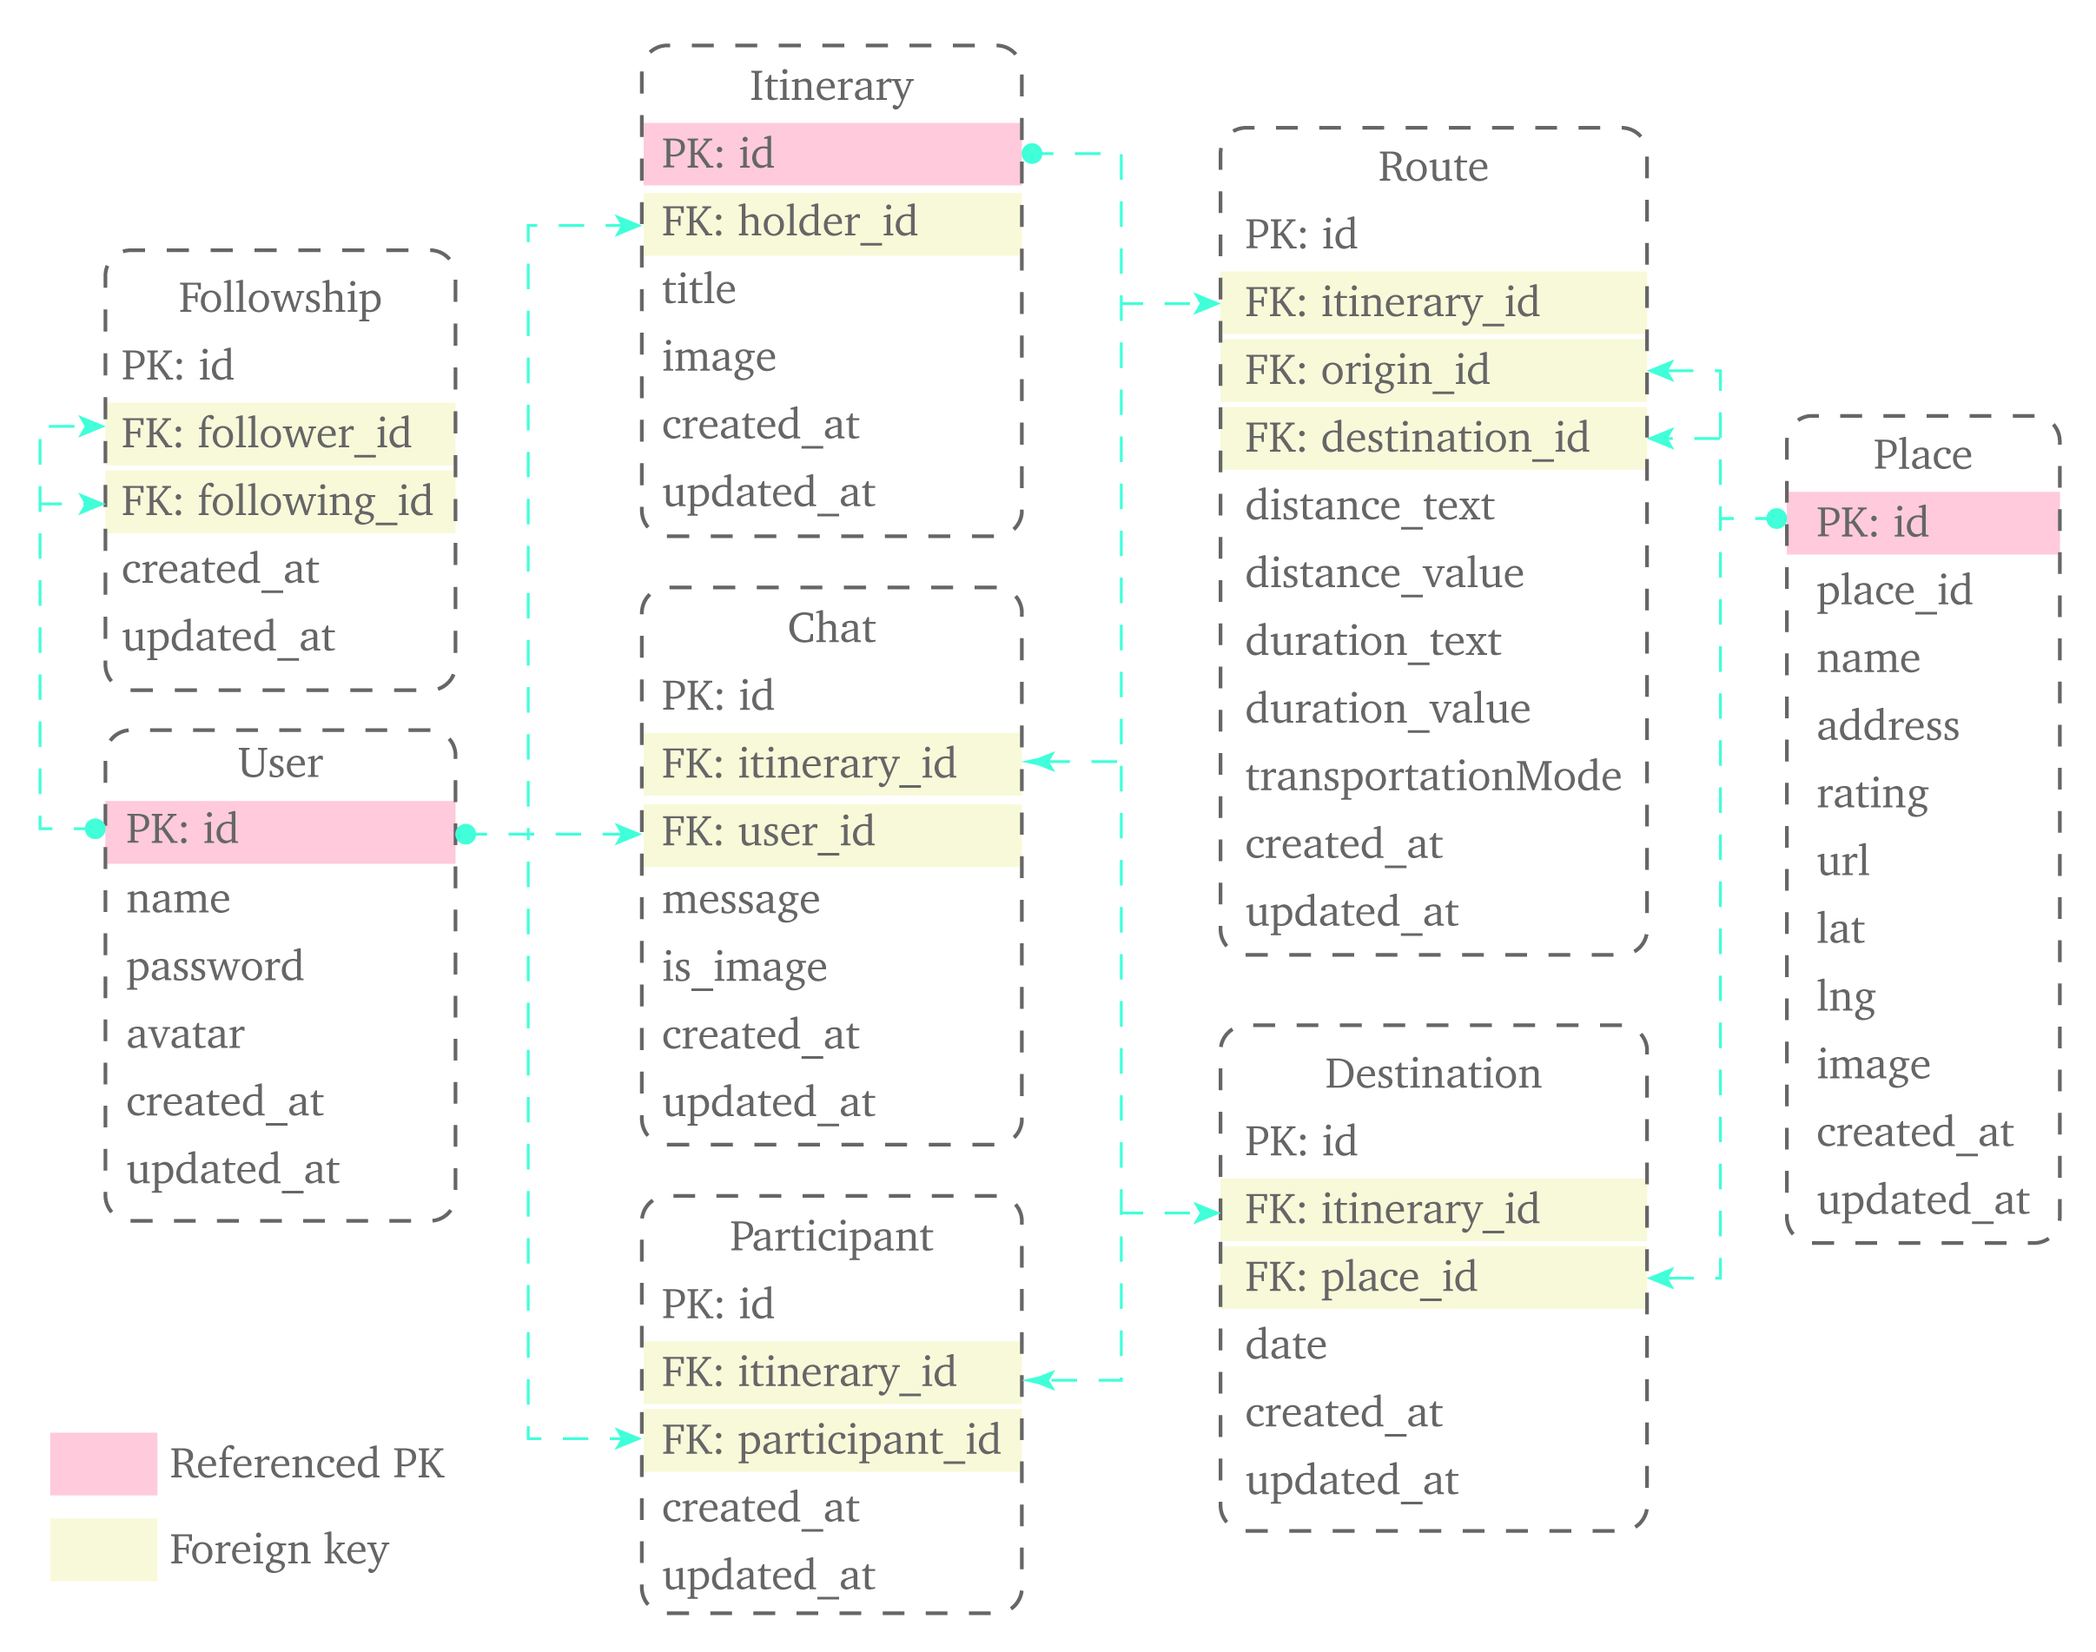
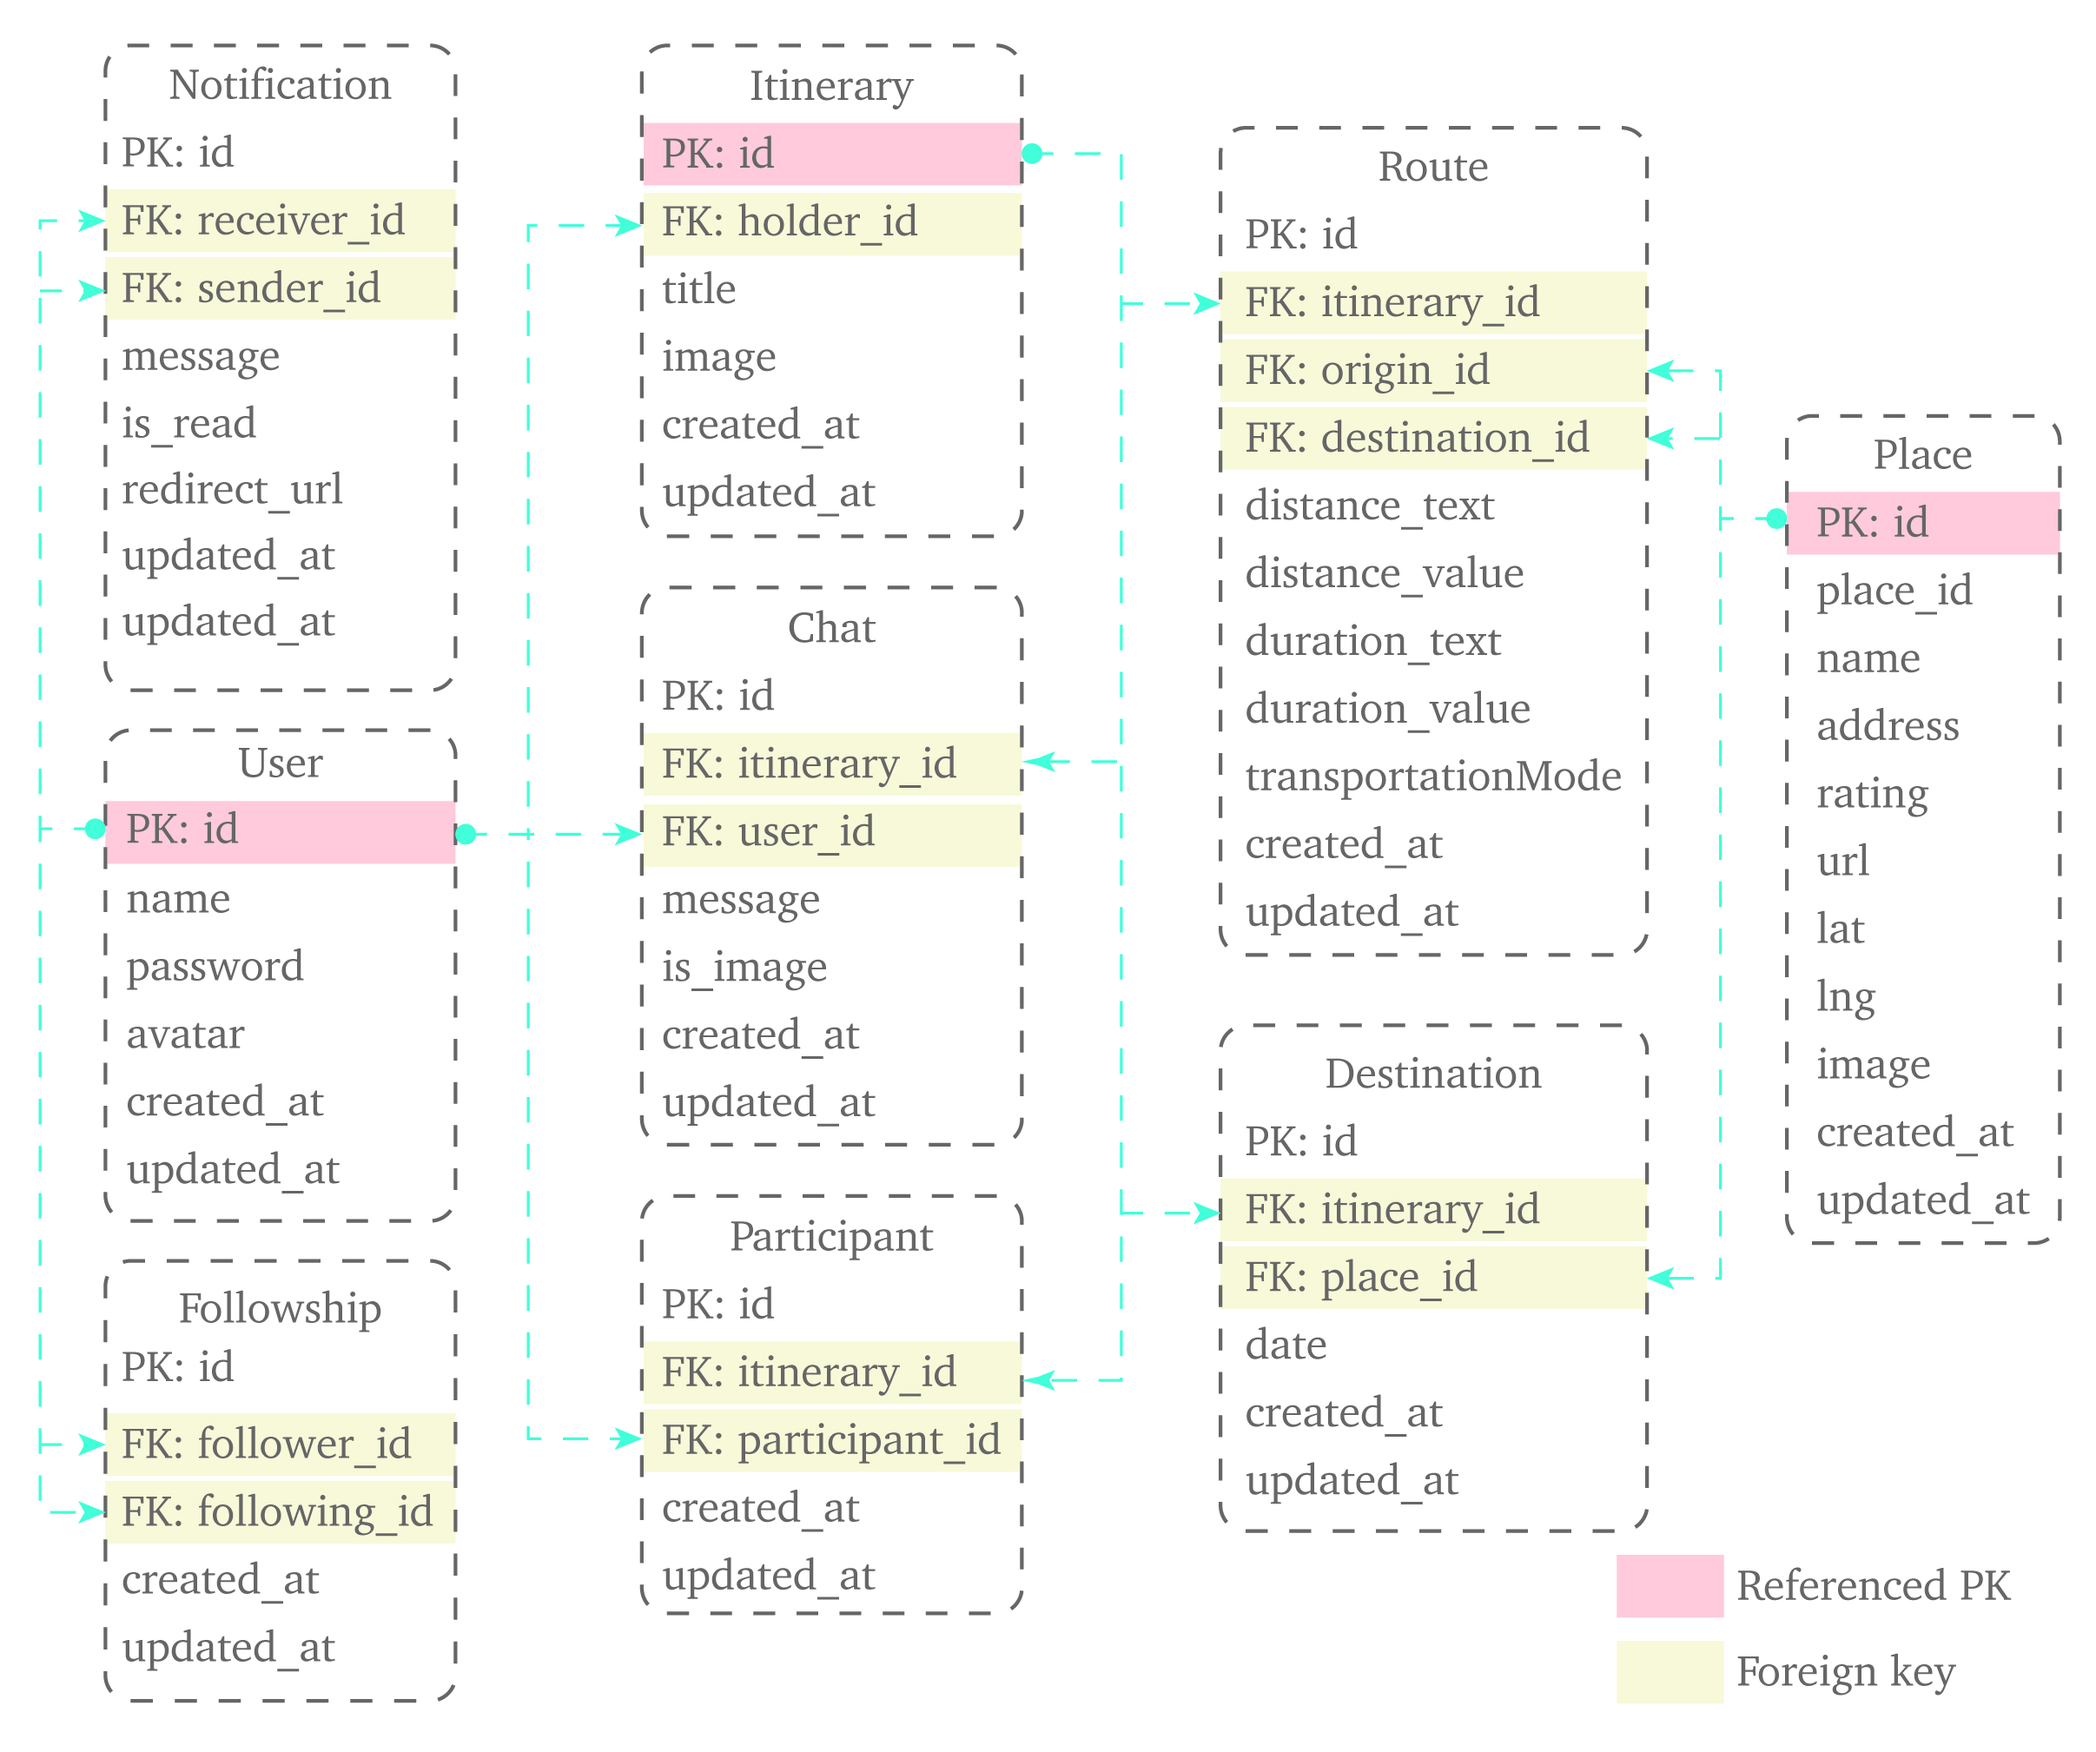
feat: mapInfo, notification socket route

diff --git a/server/utils/socket.js b/server/utils/socket.js
@@ -21,6 +21,17 @@ async function connect (server) {
       socket.nsp.to(data.room).emit('receive_message', data)
       console.log(socket.id + ' send message to ' + data.room)
     })
+
+    socket.on('send_mapInfo', data => {
+      socket.nsp.to(data.room).emit('receive_mapInfo', data)
+      console.log(socket.id + ' send mapInfo to ' + data.room)
+    })
+
+    socket.on('send_notification', data => {
+      socket.nsp.to(data.room).emit('receive_notification', data)
+      console.log(socket.id + ' send notification to ' + data.room)
+    })
+
     socket.on('disconnect', () => {
       console.log('User disconnected')
     })
